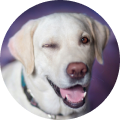
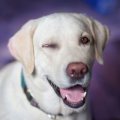
a

diff --git a/src/app/(deslogado)/racaIndividual/page.tsx b/src/app/(deslogado)/racaIndividual/page.tsx
@@ -17,7 +17,9 @@ export default function racaIndividual() {
             <TituloLinha titulo={raca.raca} />
 
             <section className="flex flex-col sm:flex-row w-4/5 self-center items-center">
-                <img src={raca.foto} className="sm:w-1/2"/>
+                <div className="sm:w-1/2">
+                    <img src={raca.foto} className="w-4/5"/>
+                </div>
                 <p className="sm:w-1/2 text-sm lg:text-base font-poppins text-preto">{raca.descricao}</p>
             </section>
 
@@ -46,10 +48,10 @@ export default function racaIndividual() {
             </section>
 
             <section className="flex flex-col gap-8">
-                <TituloLinha titulo="Relatos de donos"/>
+                <TituloLinha titulo="Relatos de donos" />
                 <div className="flex flex-col w-full items-center gap-8">
                     <h2 className="w-[90%] text-preto text-lg text-center sm:text-2xl font-averia font-bold self-center">Também tem um pet? Deixe seu relato aqui!</h2>
-                    <EscreverAvaliacao nomeUsuario={"Karol"} fotoUsuario={"./assets/doguinho.png"} />                    
+                    <EscreverAvaliacao nomeUsuario={"Karol"} fotoUsuario={"./assets/doguinho.png"} />
                 </div>
 
             </section>
